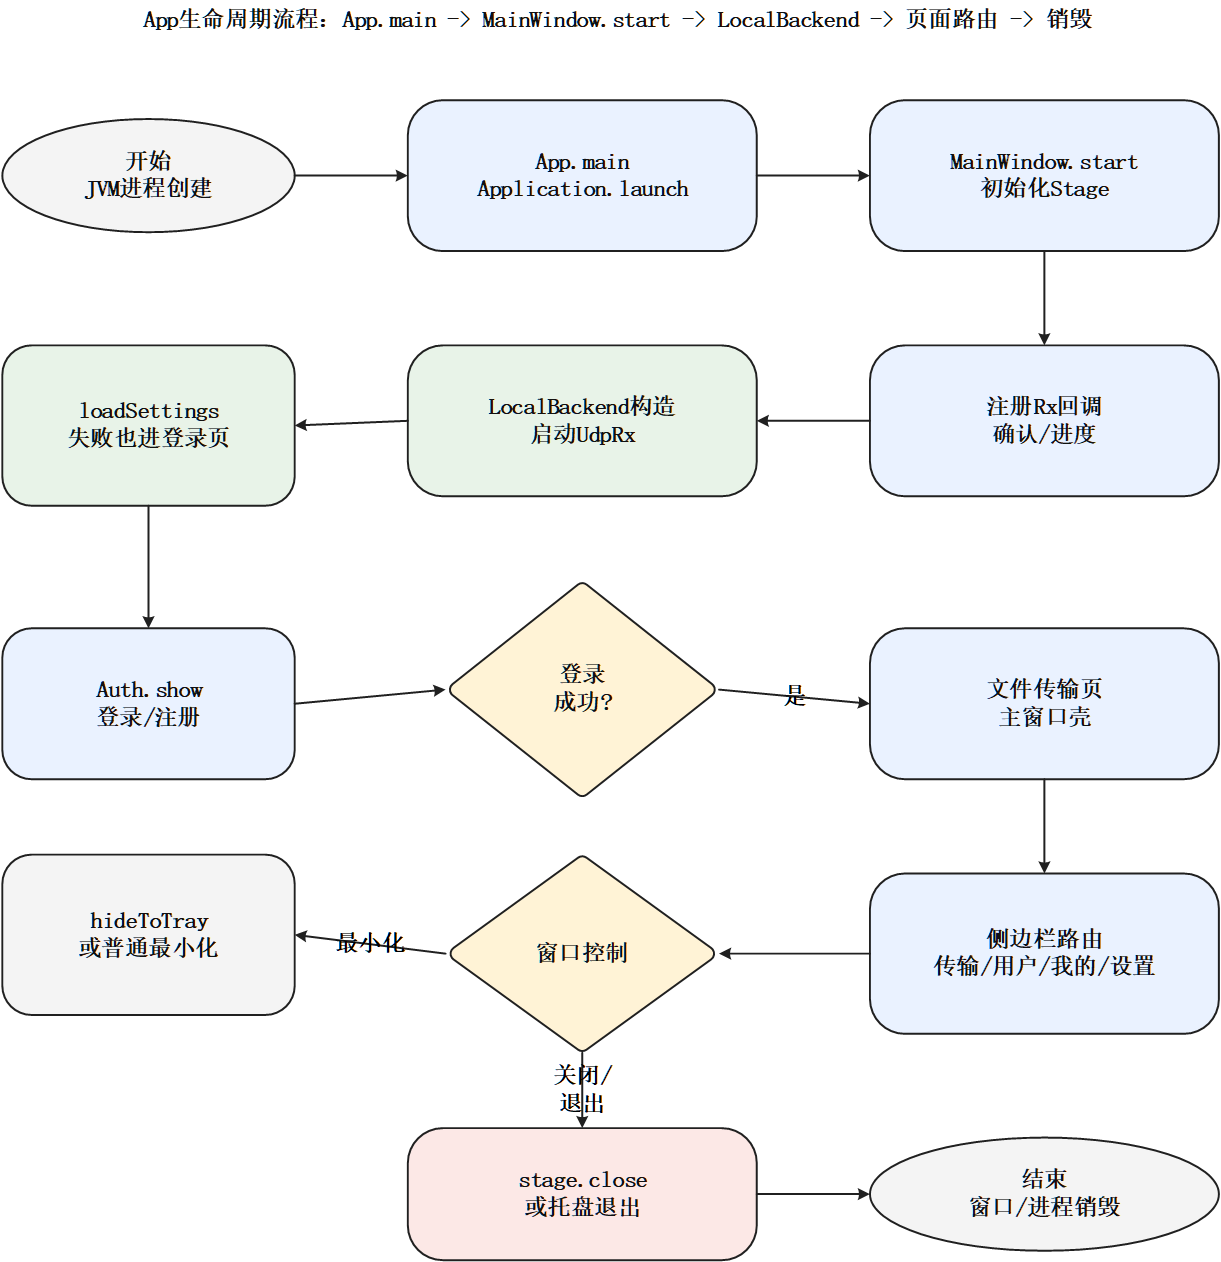
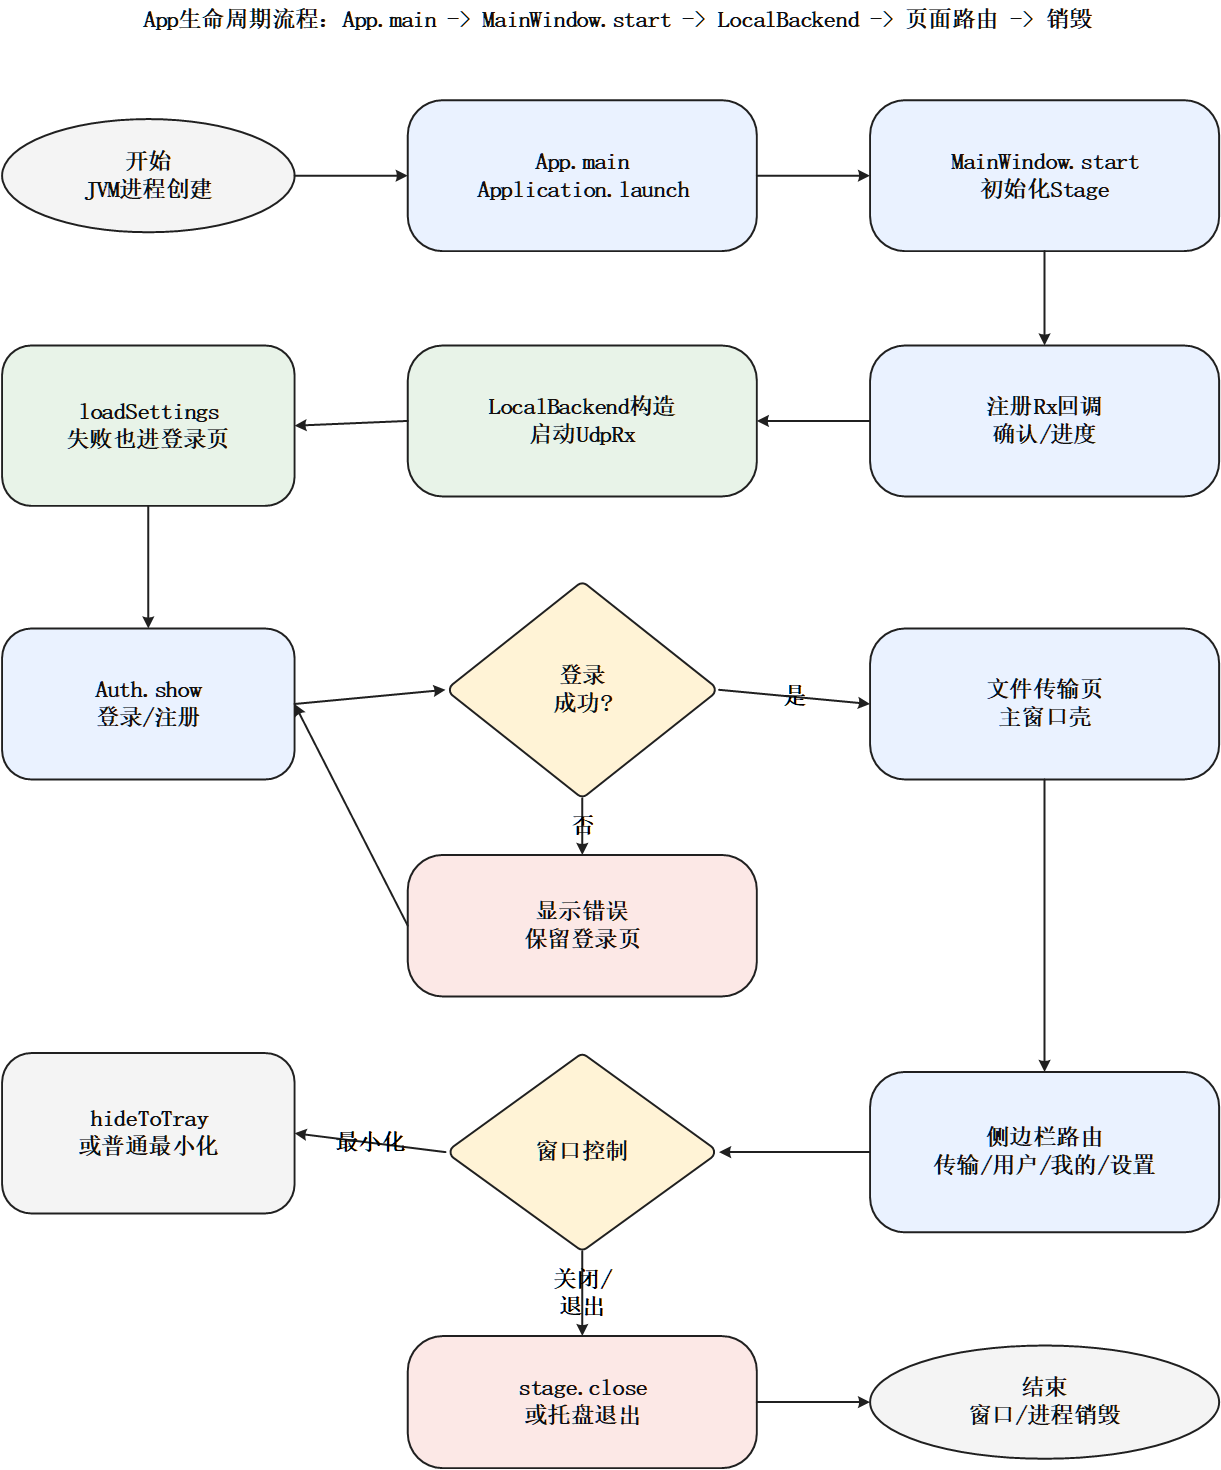
docs: normalize life flow login failure branch

diff --git a/doc/flow/讲解顺序与简明稿.md b/doc/flow/讲解顺序与简明稿.md
@@ -2,7 +2,7 @@
 
 ### 1. App生命周期流程：`life.vsdx`
 
-我们先从整个App的生命周期讲起。程序入口本身很轻，`App.main`只负责把进程交给JavaFX，真正的窗口、页面和后端初始化都从`MainWindow.start`开始。主窗口启动后，会先注册接收确认和进度回调，再创建`LocalBackend`，由后端启动UDP接收线程并加载系统设置。用户完成登录以后进入主界面，后续文件传输、用户列表、我的资料和系统设置都由侧边栏切换；最后用户关闭窗口或从托盘退出，进程才完成销毁。
+我们先从整个App的生命周期讲起。程序入口本身很轻，`App.main`只负责把进程交给JavaFX，真正的窗口、页面和后端初始化都从`MainWindow.start`开始。主窗口启动后，会先注册接收确认和进度回调，再创建`LocalBackend`，由后端启动UDP接收线程并加载系统设置。用户登录失败时会显示错误并停留在登录页，登录成功以后进入主界面；后续文件传输、用户列表、我的资料和系统设置都由侧边栏切换。最后用户关闭窗口或从托盘退出，进程才完成销毁。
 
 对应Java文件：`App.java`、`MainWindow.java`、`AppController.java`、`LocalBackend.java`、`SettingsStore.java`、`UdpRx.java`。
 